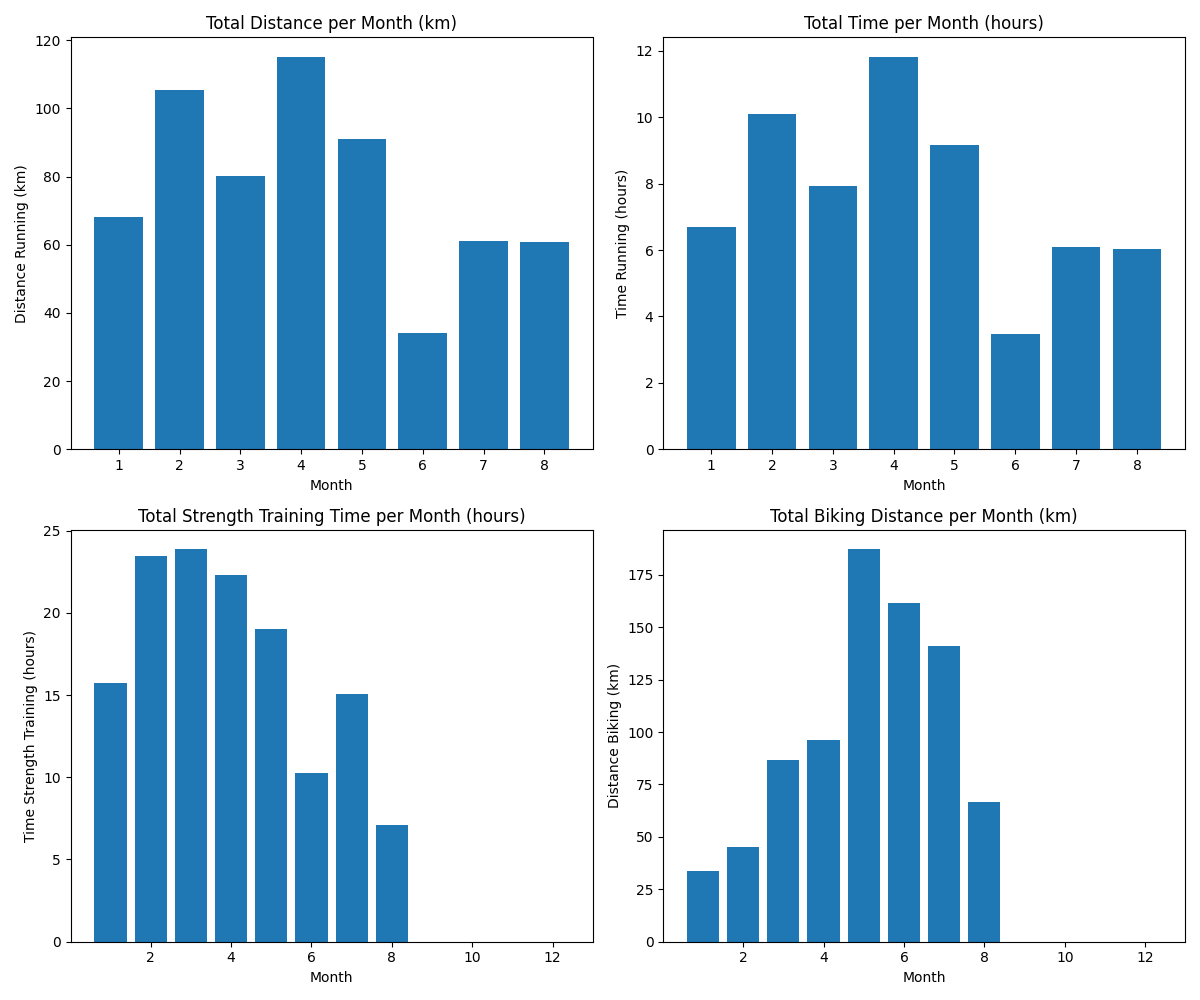
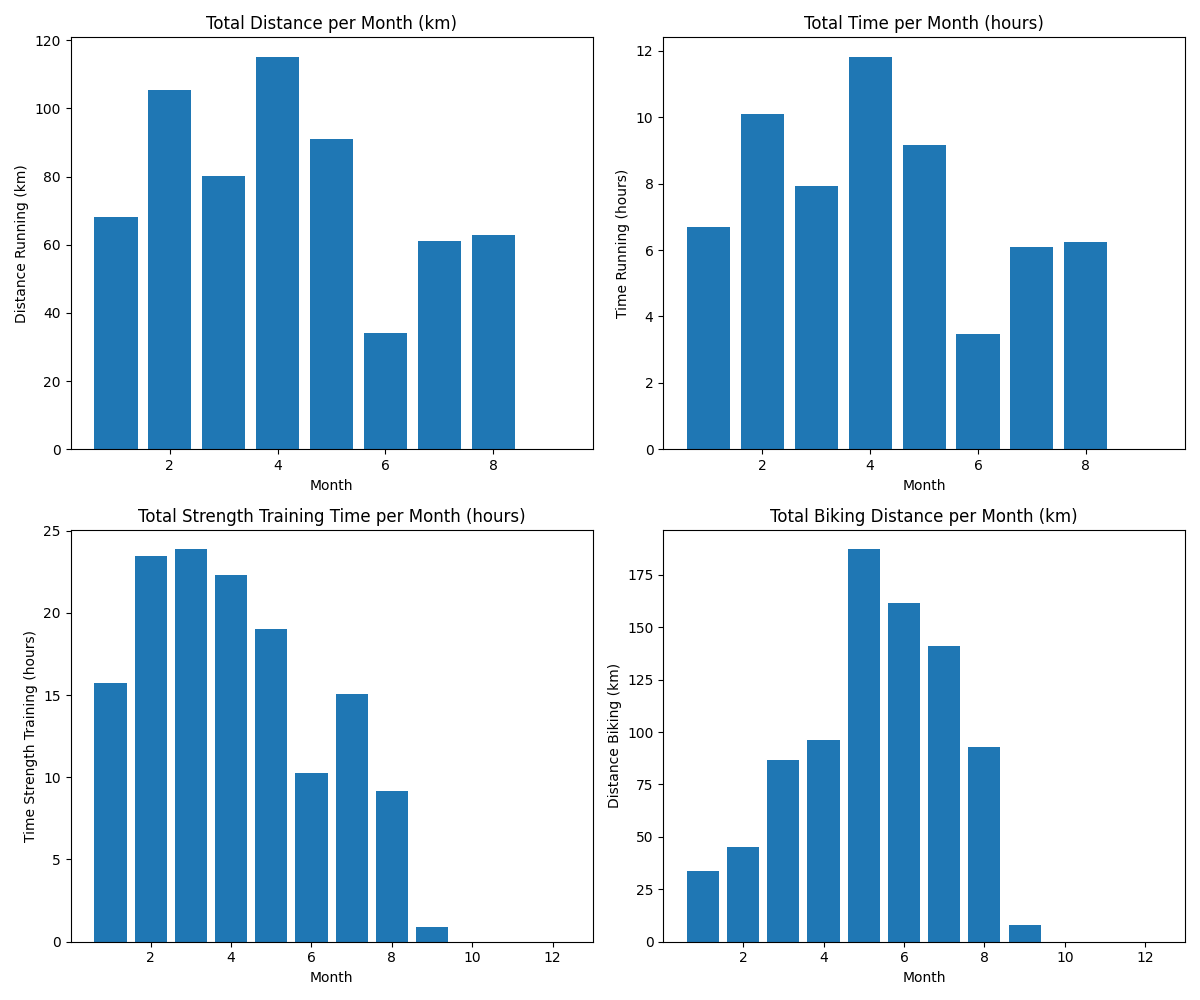
sport update 2.9

diff --git a/Sport/Sport_2026_report.md b/Sport/Sport_2026_report.md
@@ -3,24 +3,24 @@
 ## Sport Counts
 | type   |   count |
 |:-------|--------:|
-| F      |     158 |
+| F      |     161 |
 | S      |      17 |
 | L      |       9 |
+| B      |       6 |
 | K      |       5 |
-| B      |       5 |
-| Total  |     194 |
+| Total  |     198 |
 
 ## Summary
-- **Total distance run on treadmill:** 566.51 km
+- **Total distance run on treadmill:** 568.51 km
 - **Total distance run outside:** 49.10 km
-- **Total distance cycled:** 817.61 km
+- **Total distance cycled:** 851.81 km
 - **Total distance swimming:** 43.00 km
-- **Total distance skating:** 75.31 km
-- **Total time spent on strength training:** 136h 43min
+- **Total distance skating:** 90.01 km
+- **Total time spent on strength training:** 139h 43min
 
 ## Average Speeds
 - **Treadmill running:** 9.99 km/h
 - **Outside running:** 10.26 km/h
-- **Cycling:** 21.17 km/h
+- **Cycling:** 21.19 km/h
 - **Swimming:** 2.60 km/h
-- **Inline skating:** 9.51 km/h
+- **Inline skating:** 9.31 km/h
